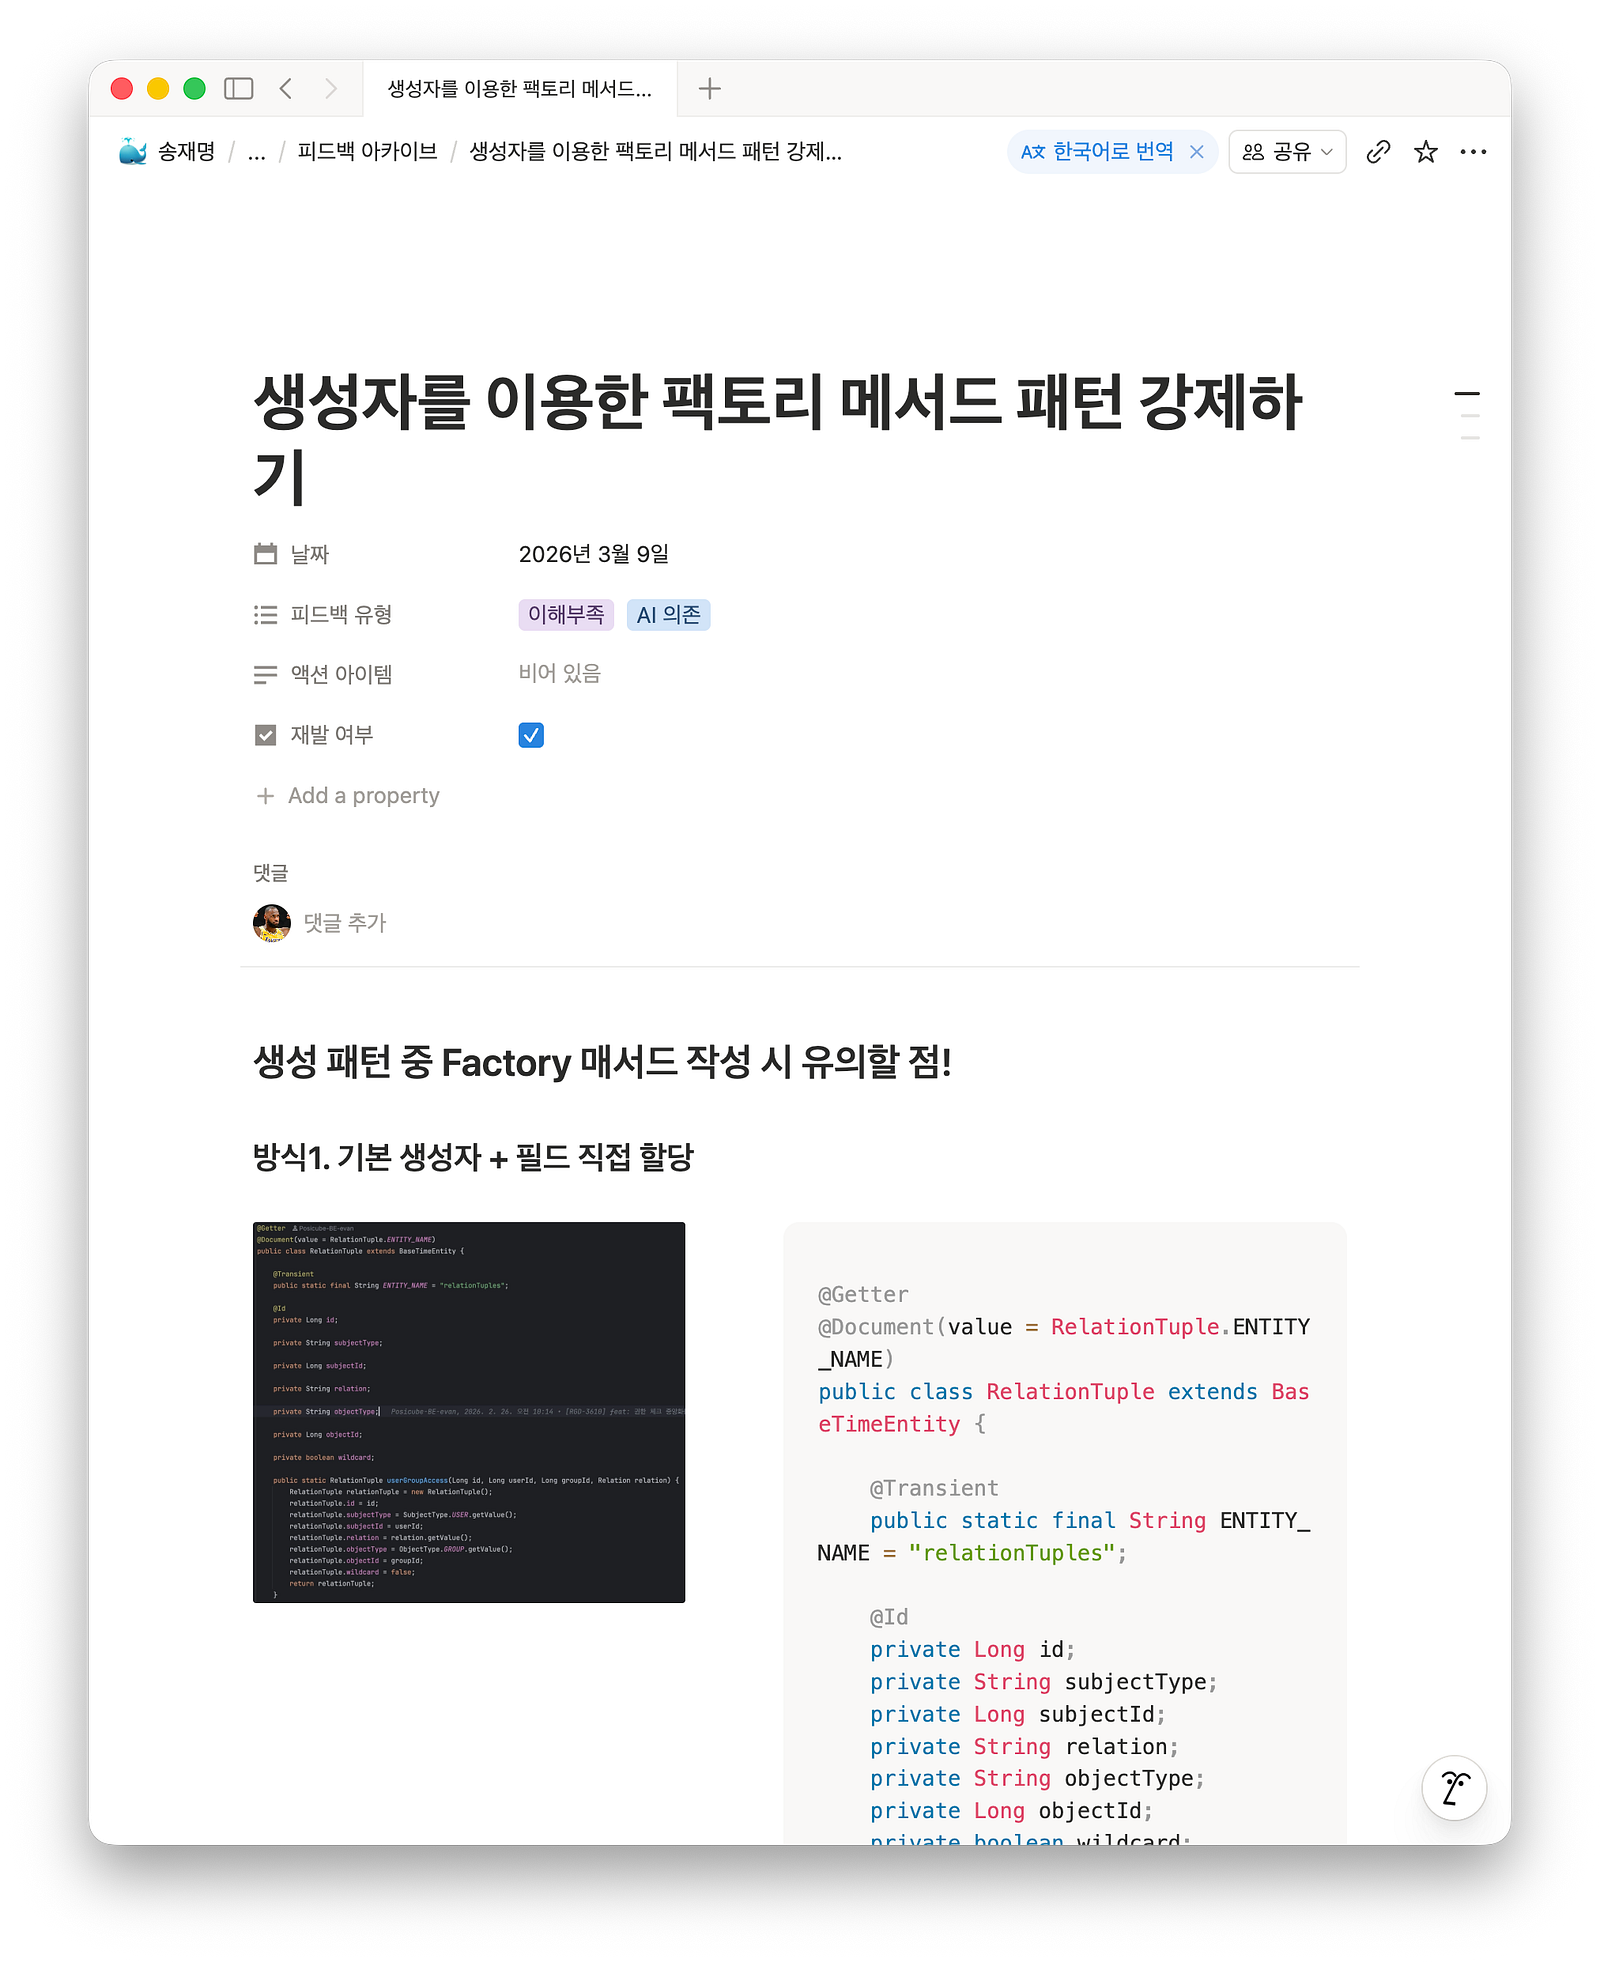
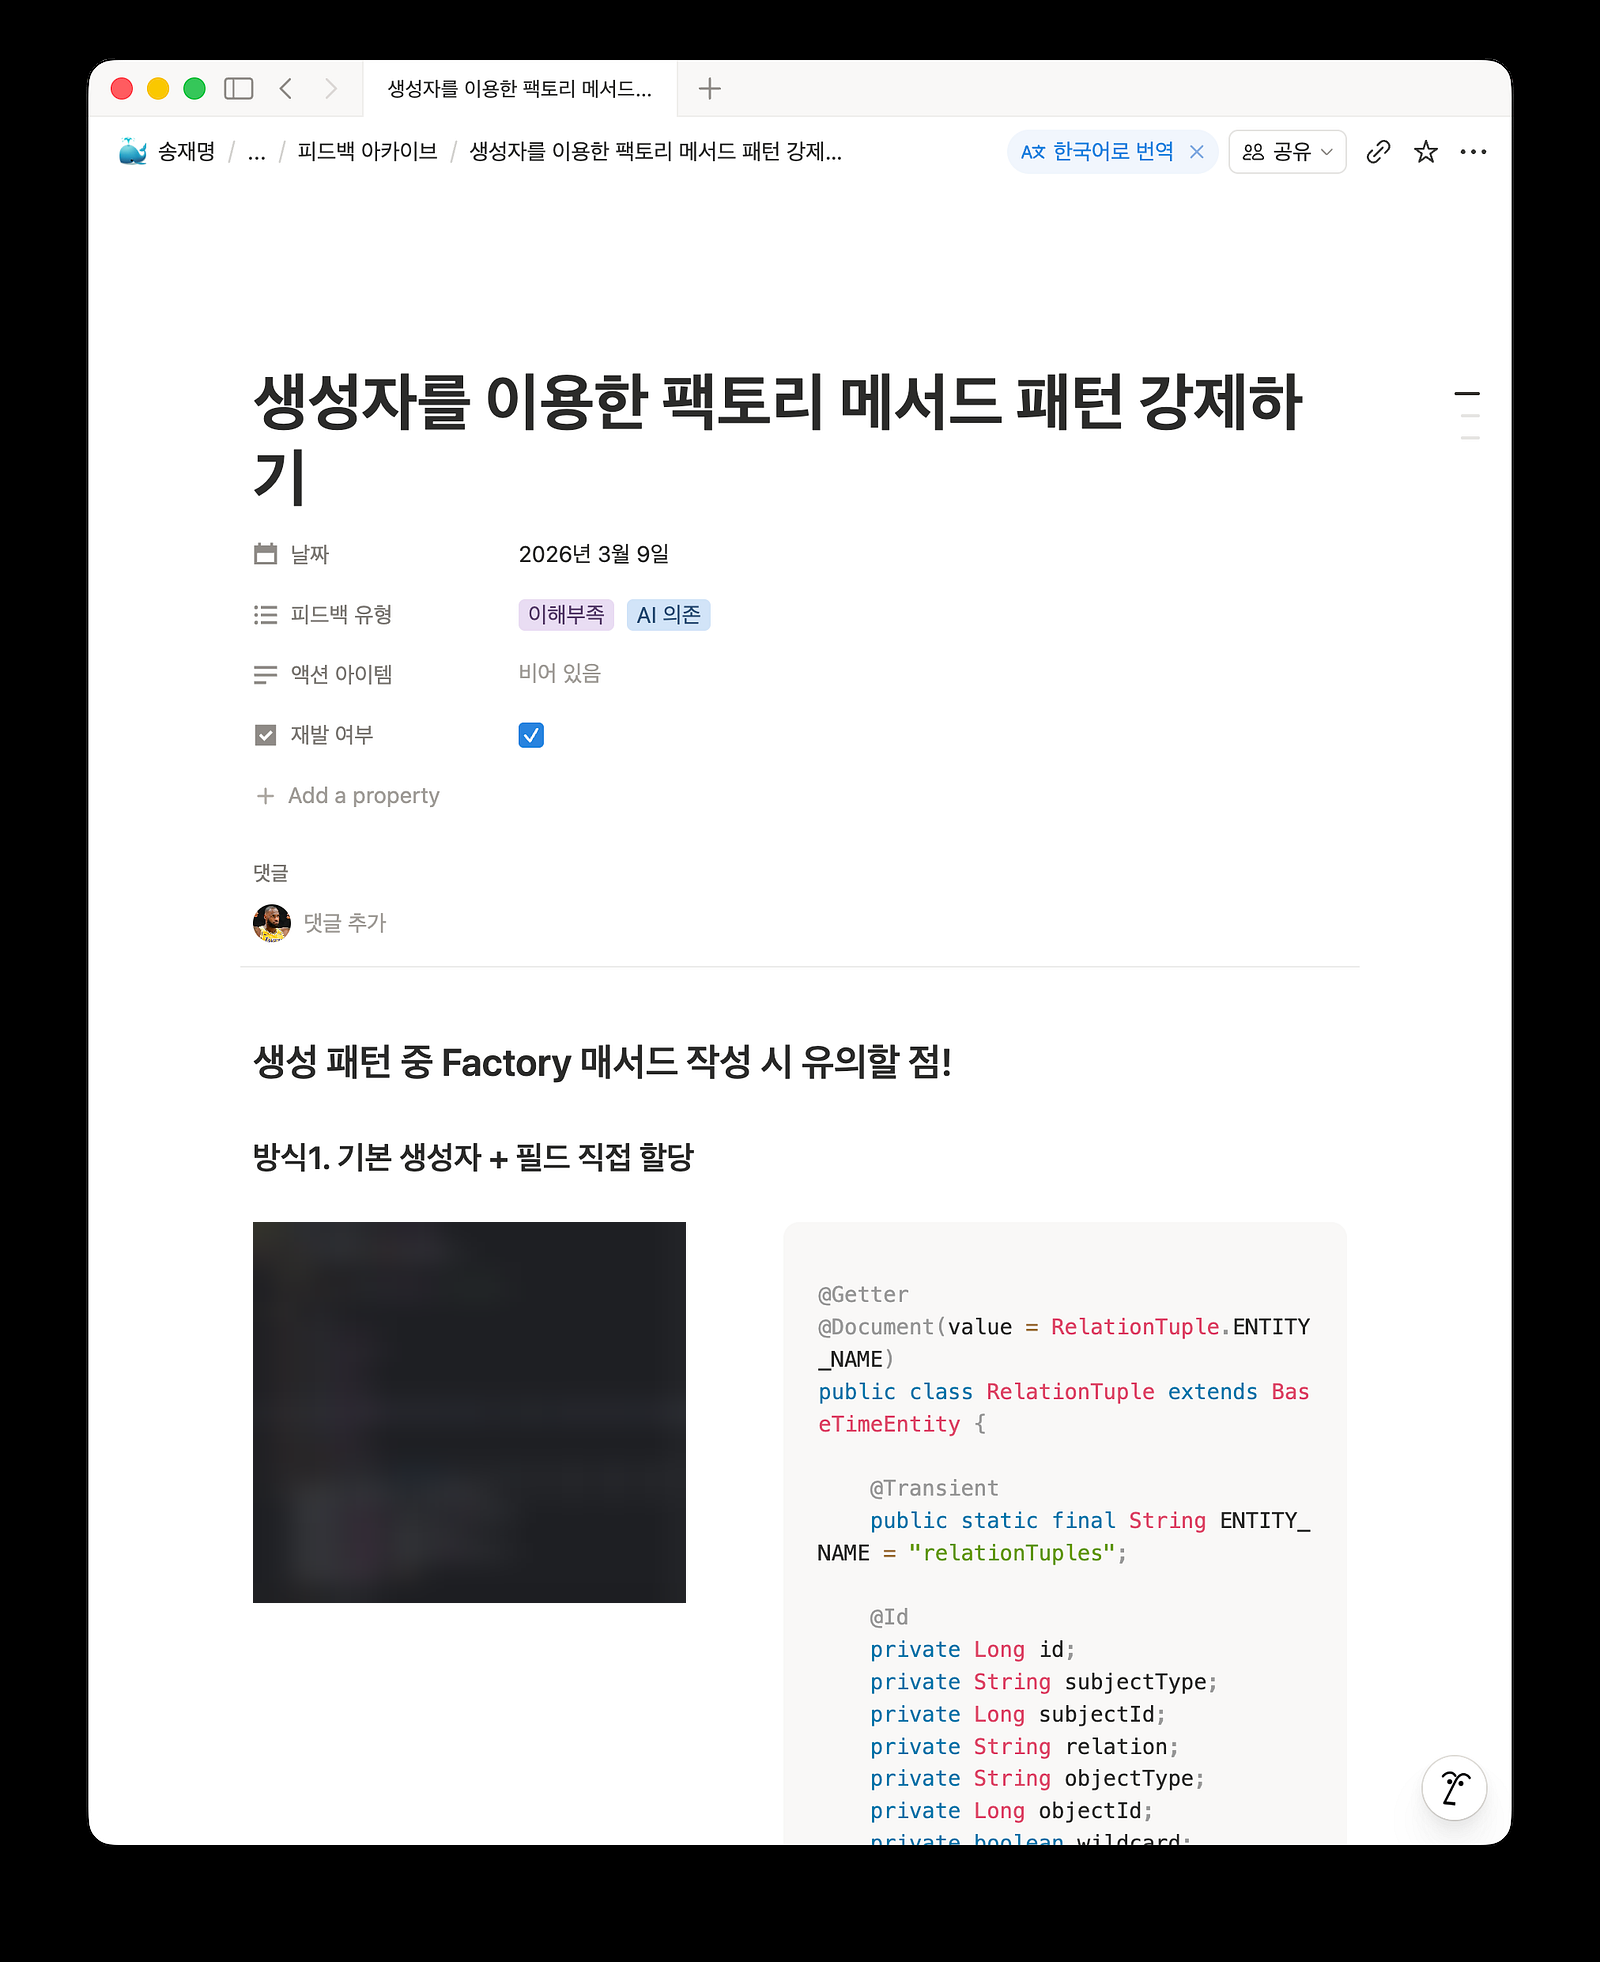
회사 정보 노출 이미지 가림, 표·코드 이미지를 텍스트로, 힙·batch 매개변수 그림 추가
- first-six-months: 책상 사진 화면 흐림, Notion 캡처의 회사명·티켓 번호·부서 경로 가림, 피드백 아카이브 캡처를 표로
- broke-our-git-history: 커밋 그림 8장을 text 블록으로
- three-questions-before-caching: 구간 로그·Postman 응답 캡처를 코드 블록으로
- ttlb-ttfb: 응답 헤더 캡처를 http 블록으로, Dockerfile 줄 언어 태그 수정
- HeapPlayground(ttlb §3.2)·BatchPlayground(stream §2.2) 추가, 막대는 PlaygroundBar 로 공용화

Claude-Session: https://claude.ai/code/session_01QWNwDh2TtntY4dnA6tR4LT

Changed region(s): [[0.0, 0.0, 1.0, 1.0], [0.1562, 0.6218, 0.3125, 0.8084]]

diff --git a/src/components/mdx/HeapPlayground.tsx b/src/components/mdx/HeapPlayground.tsx
@@ -1,0 +1,75 @@
+'use client';
+
+import { useState } from 'react';
+import { PlaygroundBar } from './PlaygroundBar';
+
+type Props = {
+  /** 측정한 피크 힙 (MB) — 본문 값 */
+  peak: number;
+  /** 피크를 잰 데이터 건수 — 본문 값 */
+  rows: number;
+  /** 컨테이너 메모리 중 JVM 힙 비율 (%) — 본문 값 */
+  ratio: number;
+  /** 컨테이너 메모리 (GB) — 본문 값 */
+  memory: number;
+  caption?: string;
+};
+
+const fmt = (n: number) => n.toLocaleString('ko-KR');
+const mb = (n: number) => (n >= 1000 ? `${(n / 1000).toFixed(1)}GB` : `${Math.round(n)}MB`);
+
+// 측정 피크를 건수에 비례해 늘려 컨테이너 힙 한도와 비교하는 그림. 비례는 본문의 추정 방식 그대로다.
+export function HeapPlayground({ peak, rows, ratio, memory: m0, caption }: Props) {
+  const [n, setN] = useState(rows);
+  const [memory, setMemory] = useState(m0);
+
+  const estimated = (peak * n) / rows;
+  const limit = memory * 1000 * (ratio / 100);
+  const usage = Math.round((estimated / limit) * 100);
+  const changed = n !== rows || memory !== m0;
+
+  return (
+    <figure className="figure frame playground">
+      <div className="playground__controls">
+        <label className="playground__field">
+          <span className="mono">데이터 건수</span>
+          <input type="range" min={1000} max={200000} step={100} value={n} onChange={(e) => setN(Number(e.target.value))} />
+          <output className="mono">{fmt(n)}건</output>
+        </label>
+        <label className="playground__field">
+          <span className="mono">컨테이너 메모리</span>
+          <input type="range" min={1} max={8} step={1} value={memory} onChange={(e) => setMemory(Number(e.target.value))} />
+          <output className="mono">{memory}GB</output>
+        </label>
+      </div>
+
+      <p className="playground__result mono" aria-live="polite">
+        추정 피크 ≒ {fmt(peak)}MB × {fmt(n)} / {fmt(rows)}건 ≈ {mb(estimated)} · 힙 한도 {mb(limit)}의{' '}
+        <strong>{fmt(usage)}%</strong>
+      </p>
+
+      <PlaygroundBar
+        value={estimated}
+        limit={limit}
+        limitLabel={`힙 한도 ${mb(limit)}`}
+        label={`추정 피크 ${mb(estimated)}, 힙 한도 ${mb(limit)}`}
+      />
+      <p className="playground__legend mono">
+        <span>{usage > 100 ? 'OOM' : '한도 안'}</span>
+        <span>초과 {mb(Math.max(0, estimated - limit))}</span>
+        <button
+          type="button"
+          onClick={() => {
+            setN(rows);
+            setMemory(m0);
+          }}
+          disabled={!changed}
+        >
+          본문 가정으로
+        </button>
+      </p>
+
+      {caption && <figcaption className="mono">{caption}</figcaption>}
+    </figure>
+  );
+}

diff --git a/src/components/mdx/BatchPlayground.tsx b/src/components/mdx/BatchPlayground.tsx
@@ -1,0 +1,64 @@
+'use client';
+
+import { useState } from 'react';
+
+type Props = {
+  /** 처리 건수 N — 본문 값 */
+  n: number;
+  /** batch 크기 — 본문 값 */
+  batch: number;
+  /** batch 크기일 때 1묶음이 점유하는 메모리 (MB) — 본문 실측값 */
+  batchMb: number;
+  caption?: string;
+};
+
+const fmt = (n: number) => n.toLocaleString('ko-KR');
+
+// 쿼리 수 N → ⌈N/batch⌉ 와 batch 1묶음의 메모리를 독자가 바꿔 보는 그림. 메모리는 실측값을 batch 크기에 비례해 늘린 추정이다.
+export function BatchPlayground({ n: n0, batch: b0, batchMb, caption }: Props) {
+  const [n, setN] = useState(n0);
+  const [batch, setBatch] = useState(b0);
+
+  const flushes = Math.ceil(n / batch);
+  const memory = Math.round((batchMb * batch) / b0);
+  const changed = n !== n0 || batch !== b0;
+
+  return (
+    <figure className="figure frame playground">
+      <div className="playground__controls">
+        <label className="playground__field">
+          <span className="mono">처리 건수 N</span>
+          <input type="range" min={1000} max={200000} step={100} value={n} onChange={(e) => setN(Number(e.target.value))} />
+          <output className="mono">{fmt(n)}건</output>
+        </label>
+        <label className="playground__field">
+          <span className="mono">batch 크기</span>
+          <input type="range" min={100} max={10000} step={100} value={batch} onChange={(e) => setBatch(Number(e.target.value))} />
+          <output className="mono">{fmt(batch)}건</output>
+        </label>
+      </div>
+
+      <p className="playground__result mono" aria-live="polite">
+        쿼리 수 {fmt(n)}회 → ⌈{fmt(n)} / {fmt(batch)}⌉ = <strong>{fmt(flushes)}회</strong>
+      </p>
+      <p className="playground__legend mono">
+        <span>약 {fmt(Math.round(n / flushes))}배 감소</span>
+        <span>
+          batch 1묶음 ≈ {fmt(memory)}MB{batch !== b0 && ' (추정)'}
+        </span>
+        <button
+          type="button"
+          onClick={() => {
+            setN(n0);
+            setBatch(b0);
+          }}
+          disabled={!changed}
+        >
+          본문 가정으로
+        </button>
+      </p>
+
+      {caption && <figcaption className="mono">{caption}</figcaption>}
+    </figure>
+  );
+}

diff --git a/src/components/mdx/LoaderPlayground.tsx b/src/components/mdx/LoaderPlayground.tsx
@@ -1,6 +1,7 @@
 'use client';
 
 import { useState } from 'react';
+import { PlaygroundBar } from './PlaygroundBar';
 
 type Props = {
   /** 재생성 시간 T (ms) — 본문 값 */
@@ -20,7 +21,6 @@ export function LoaderPlayground({ t: t0, r: r0, pool, caption }: Props) {
   const loaders = Math.round((t / 1000) * r);
   const acquired = Math.min(loaders, pool);
   const waiting = Math.max(0, loaders - pool);
-  const scale = Math.max(loaders, pool * 1.25);
   const changed = t !== t0 || r !== r0;
 
   return (
@@ -42,13 +42,12 @@ export function LoaderPlayground({ t: t0, r: r0, pool, caption }: Props) {
         동시 로더 ≒ {(t / 1000).toFixed(3)}초 × {r}건 ≈ <strong>{loaders}개</strong>
       </p>
 
-      <div className="playground__bar" role="img" aria-label={`커넥션 획득 ${acquired}개, 대기 ${waiting}개`}>
-        <span className="playground__acquired" style={{ width: `${(acquired / scale) * 100}%` }} />
-        <span className="playground__waiting" style={{ width: `${(waiting / scale) * 100}%` }} />
-        <span className="playground__pool" style={{ left: `${(pool / scale) * 100}%` }}>
-          <span className="mono">풀 {pool}</span>
-        </span>
-      </div>
+      <PlaygroundBar
+        value={loaders}
+        limit={pool}
+        limitLabel={`풀 ${pool}`}
+        label={`커넥션 획득 ${acquired}개, 대기 ${waiting}개`}
+      />
       <p className="playground__legend mono">
         <span>커넥션 획득 {acquired}</span>
         <span>대기 {waiting}</span>

diff --git a/src/components/mdx/PlaygroundBar.tsx b/src/components/mdx/PlaygroundBar.tsx
@@ -1,0 +1,26 @@
+type Props = {
+  /** 막대에 올릴 값 */
+  value: number;
+  /** 점선으로 표시할 한도 */
+  limit: number;
+  limitLabel: string;
+  /** 스크린 리더용 설명 */
+  label: string;
+};
+
+// 매개변수 그림의 막대. 한도 안은 칠하고 넘친 만큼은 빗금으로 그린다.
+export function PlaygroundBar({ value, limit, limitLabel, label }: Props) {
+  const within = Math.min(value, limit);
+  const over = Math.max(0, value - limit);
+  const scale = Math.max(value, limit * 1.25);
+
+  return (
+    <div className="playground__bar" role="img" aria-label={label}>
+      <span className="playground__acquired" style={{ width: `${(within / scale) * 100}%` }} />
+      <span className="playground__waiting" style={{ width: `${(over / scale) * 100}%` }} />
+      <span className="playground__pool" style={{ left: `${(limit / scale) * 100}%` }}>
+        <span className="mono">{limitLabel}</span>
+      </span>
+    </div>
+  );
+}

diff --git a/src/mdx-components.tsx b/src/mdx-components.tsx
@@ -1,13 +1,17 @@
 import type { ComponentProps } from 'react';
 import type { MDXComponents } from 'mdx/types';
+import { BatchPlayground } from '@/components/mdx/BatchPlayground';
 import { CodeBlock } from '@/components/mdx/CodeBlock';
 import { Figure } from '@/components/mdx/Figure';
+import { HeapPlayground } from '@/components/mdx/HeapPlayground';
 import { LoaderPlayground } from '@/components/mdx/LoaderPlayground';
 
 // 글 안에서 import 없이 쓰는 컴포넌트를 여기에 등록한다.
 // pre·table 은 마크다운이 만든 태그를 바꿔 끼운다.
 const components: MDXComponents = {
+  BatchPlayground,
   Figure,
+  HeapPlayground,
   LoaderPlayground,
   pre: CodeBlock,
   table: (props: ComponentProps<'table'>) => (

diff --git a/src/app/globals.css b/src/app/globals.css
@@ -602,7 +602,7 @@ a {
 }
 .playground__field {
   display: grid;
-  grid-template-columns: 120px minmax(0, 1fr) 64px;
+  grid-template-columns: 120px minmax(0, 1fr) 88px;
   align-items: center;
   gap: 16px;
 }
@@ -844,7 +844,7 @@ a {
     padding: 20px 16px;
   }
   .playground__field {
-    grid-template-columns: minmax(0, 1fr) 64px;
+    grid-template-columns: minmax(0, 1fr) 88px;
   }
   .playground__field span {
     grid-column: 1 / -1;

diff --git a/src/components/mdx/CodeBlock.tsx b/src/components/mdx/CodeBlock.tsx
@@ -4,7 +4,9 @@ import { useRef, useState, type ComponentProps } from 'react';
 
 const LABELS: Record<string, string> = {
   bash: 'Shell',
+  dockerfile: 'Dockerfile',
   html: 'HTML',
+  http: 'HTTP',
   java: 'Java',
   json: 'JSON',
   jsonc: 'JSON',

diff --git a/AGENTS.md b/AGENTS.md
@@ -54,6 +54,8 @@ draft: false
 | --- | --- |
 | `<Figure src alt width height>캡션</Figure>` | 그림. 원본은 `public/posts/<slug>/`, 화면에는 next/image 가 줄인 WebP |
 | `<LoaderPlayground t r pool caption />` | 동시 로더 수 ≒ T × R 을 독자가 바꿔 보는 그림 (`cache-stampede`) |
+| `<HeapPlayground peak rows ratio memory caption />` | 측정 피크 힙을 건수에 비례해 늘려 컨테이너 힙 한도와 비교 (`ttlb-ttfb-download-api-bottleneck`) |
+| `<BatchPlayground n batch batchMb caption />` | 쿼리 수 N → ⌈N/batch⌉ 와 batch 메모리 (`stream-pipeline-download-oom`) |
 
 - 컴포넌트에 함수를 props 로 넘기지 않는다. 서버에서 그리는 MDX 가 클라이언트 컴포넌트로 함수를 넘기면 오류가 난다.
 - 그림에 쓰는 숫자도 본문에 있는 값만 쓴다.
